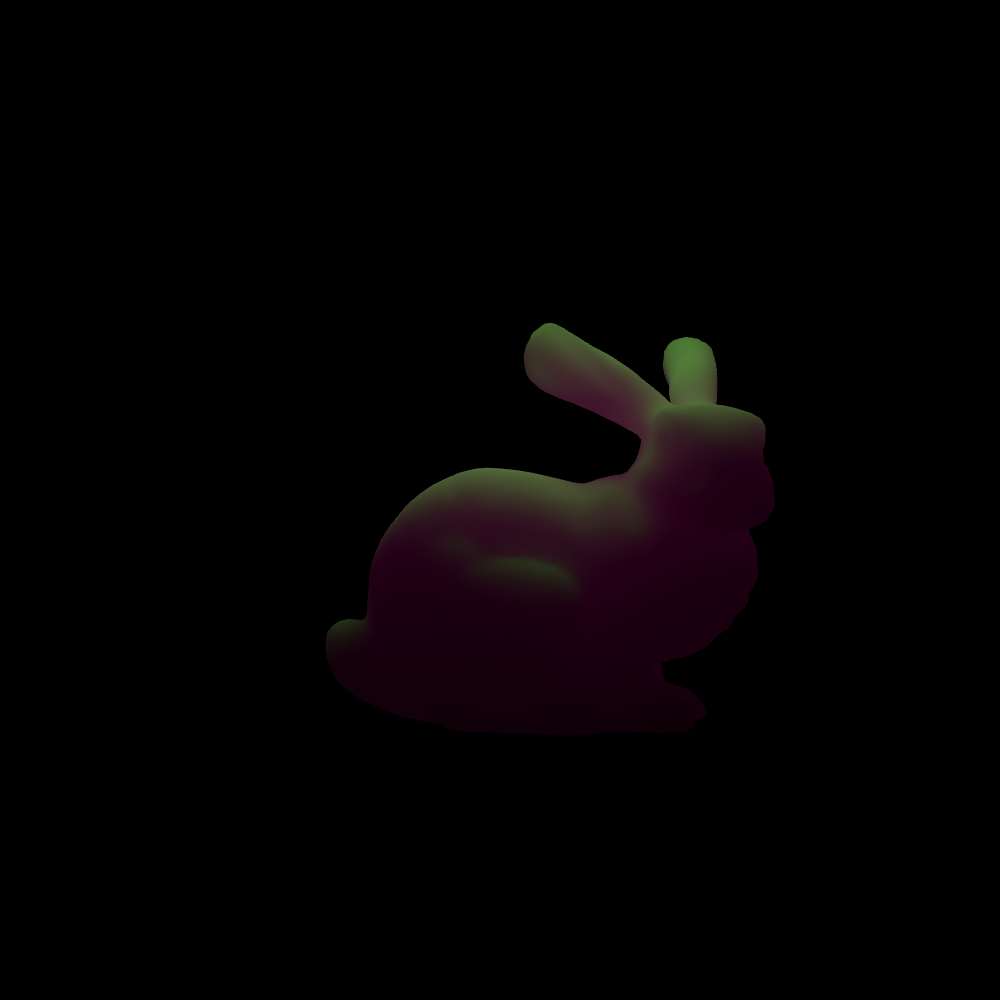
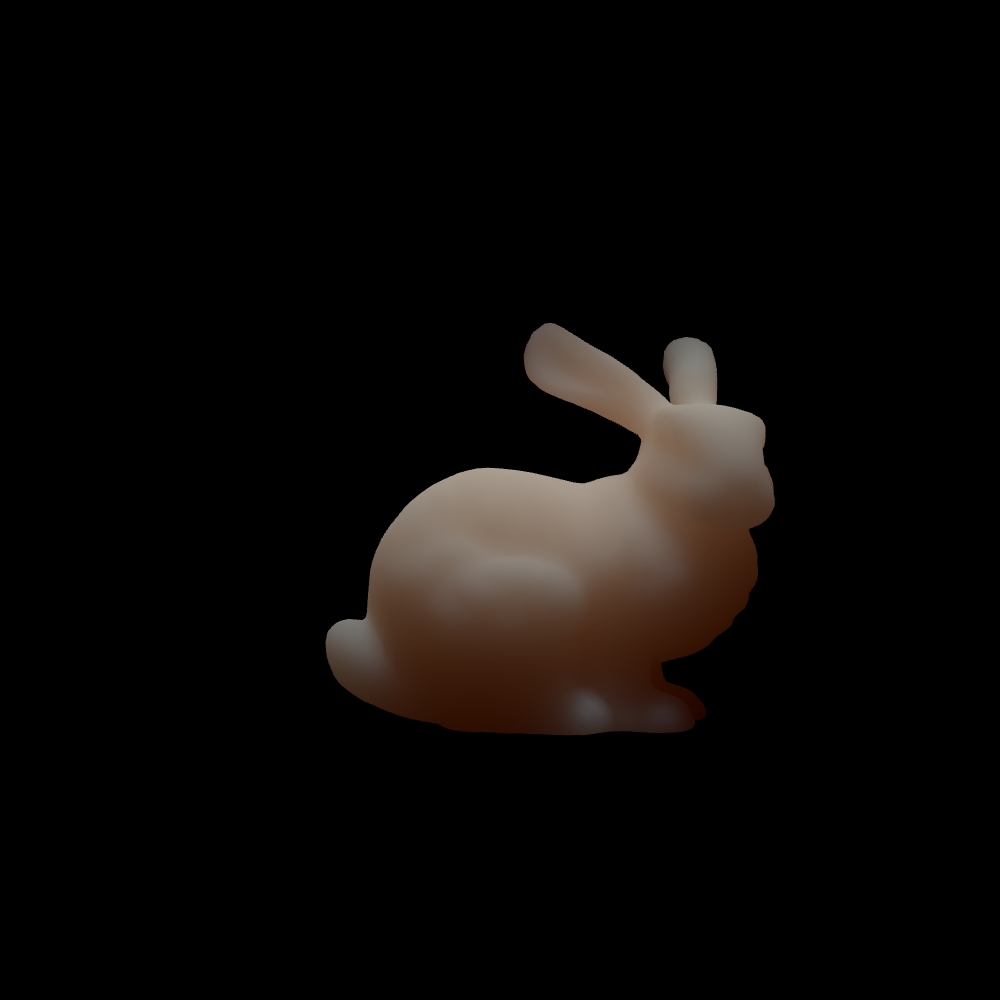
fix typo && add skin material

Changed region(s): [[0.31, 0.31, 0.775, 0.744]]

diff --git a/src/main.py b/src/main.py
@@ -206,7 +206,7 @@ def parse_scene(filename: str):
         direction_lights = \
             [DeviceDirectionLight(
                 direction=make_float3(*light["direction"]),
-                emission=make_float3(*light("emission"))
+                emission=make_float3(*light["emission"])
             ) for light in scene_data["direction_lights"]]
         direction_light_buffer = luisa.Buffer.empty(max(len(direction_lights), 1), dtype=DeviceDirectionLight)
         if direction_lights:
@@ -215,7 +215,7 @@ def parse_scene(filename: str):
         point_lights = \
             [DevicePointLight(
                 position=make_float3(*light["position"]),
-                emission=make_float3(*light("emission"))
+                emission=make_float3(*light["emission"])
             ) for light in scene_data["point_lights"]]
         point_light_buffer = luisa.Buffer.empty(max(len(point_lights), 1), dtype=DevicePointLight)
         if point_lights:
@@ -321,7 +321,7 @@ def vertex_influx_kernel(influx):
                 max(0., dot(normal, probe_ray.get_dir())))
     for i in range(direction_light_count):
         direction_light = direction_light_buffer.read(i)
-        direction = normalize(-direction_light.direction)
+        direction = normalize(direction_light.direction)
         probe_ray = make_ray(offset_ray_origin(vertex, normal), direction, 1e-2, 1e10)
         if not accel.trace_any(probe_ray):
             acc += direction_light.emission * max(dot(normal, direction), 0.0) * fresnel_schlick(
@@ -355,14 +355,6 @@ def collect_vertex_influx() -> luisa.Buffer:
     vertex_influx_buffer = luisa.Buffer.empty(model_vertex_count, float3)
     vertex_influx_kernel(vertex_influx_buffer, dispatch_size=model_vertex_count)
     return vertex_influx_buffer
-
-
-@luisa.func
-def linear_to_srgb(x):
-    return clamp(select(1.055 * x ** (1.0 / 2.4) - 0.055,
-                        12.92 * x,
-                        x <= 0.00031308),
-                 0.0, 1.0)
 
 
 def main():
@@ -534,7 +526,7 @@ def main():
     buffer = bytearray(res[0] * res[1] * 4 * 4)
     render_target.read_into(buffer)
     postfix = sys.argv[1].split('/')[-1].split('\\')[-1].split('.')[0] + '-' + str(equation).lower().split('.')[-1]
-    plt.imsave(f"result-teaser-dipole.png", np.frombuffer(buffer, dtype=np.float32).reshape(res + (-1,))[::-1, ::-1])
+    plt.imsave(f"result-{postfix}.png", np.frombuffer(buffer, dtype=np.float32).reshape(res + (-1,))[::-1, ::-1])
 
 
 if __name__ == "__main__":
